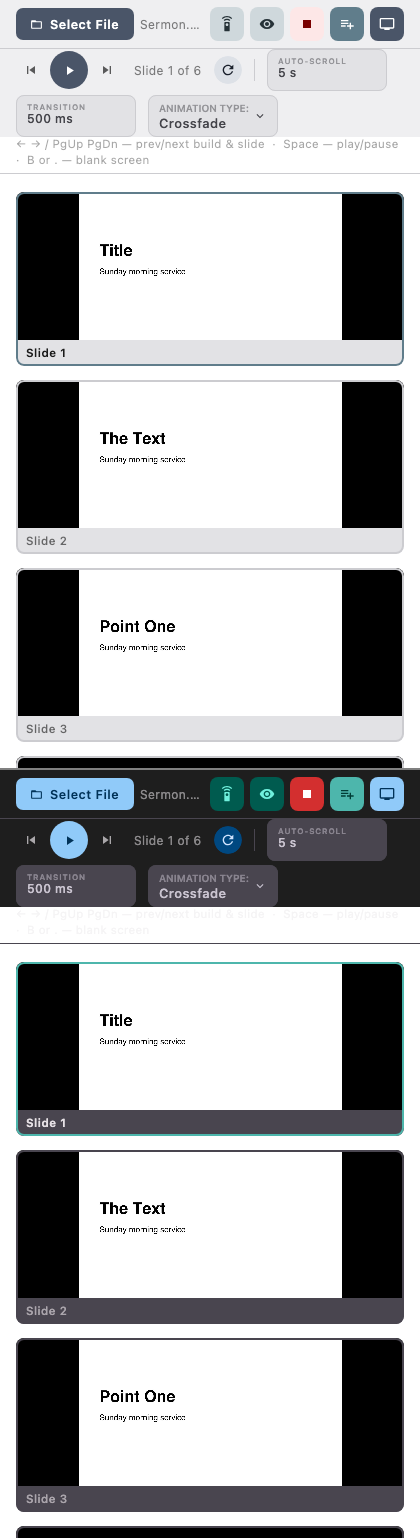
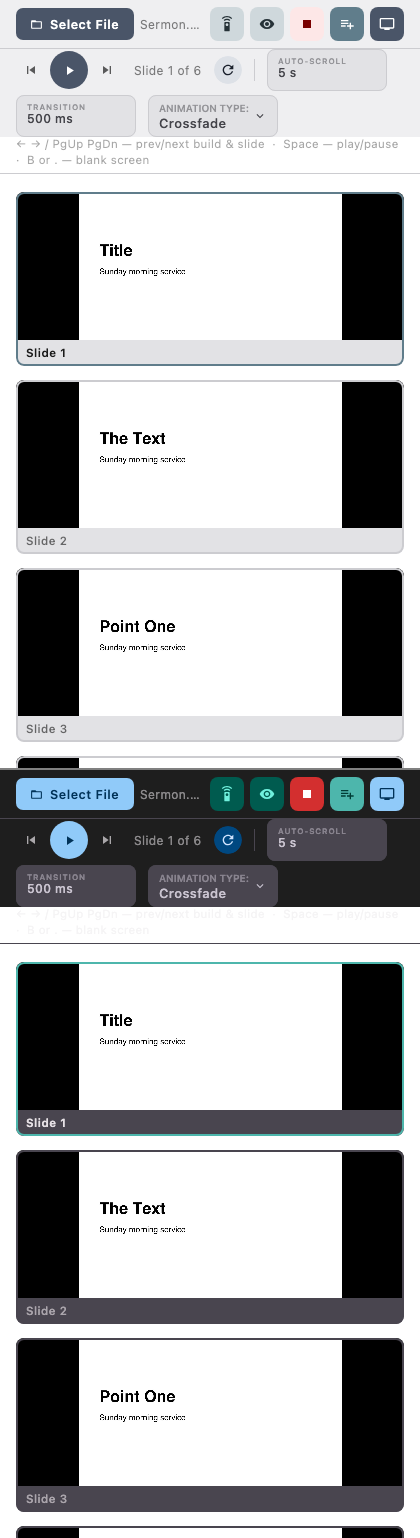
Improve slide label matching in PresentationTab test
Update PresentationTab screenshot test to match slide labels more robustly and use the unmerged semantics tree. Replace startsWith("Slide ") checks with a Regex (Slide \d+) so the test matches tile labels (e.g. "Slide 3") and not counters like "Slide 3 of 6". Also read ContentDescription with the same regex and call onAllNodes(..., useUnmergedTree = true) when fetching semantics. Regenerate the narrow_panel screenshot to reflect the UI change.

Changed region(s): [[0.1857, 0.9675, 0.8357, 1.0], [0.1857, 0.4681, 0.8048, 0.4993]]

diff --git a/composeApp/src/jvmTest/kotlin/org/churchpresenter/app/churchpresenter/screenshot/PresentationTabScreenshotTest.kt b/composeApp/src/jvmTest/kotlin/org/churchpresenter/app/churchpresenter/screenshot/PresentationTabScreenshotTest.kt
@@ -141,16 +141,16 @@ class PresentationTabScreenshotTest {
         waitUntil("every composed slide drawn", 5_000) {
             Snapshot.sendApplyNotifications()
             val labelled = semantics(SemanticsProperties.Text) { it.joinToString("") { t -> t.text } }
-                .filter { it.startsWith(SLIDE) }.toSet()
+                .filter { SLIDE_LABEL.matches(it) }.toSet()
             val drawn = semantics(SemanticsProperties.ContentDescription) { it.first() }
-                .filter { it.startsWith(SLIDE) }.toSet()
+                .filter { SLIDE_LABEL.matches(it) }.toSet()
             drawn.containsAll(labelled)
         }
         waitForIdle()
     }
 
     private fun <T> ComposeUiTest.semantics(key: SemanticsPropertyKey<T>, read: (T) -> String): List<String> =
-        onAllNodes(SemanticsMatcher.keyIsDefined(key))
+        onAllNodes(SemanticsMatcher.keyIsDefined(key), useUnmergedTree = true)
             .fetchSemanticsNodes(atLeastOneRootRequired = false)
             .mapNotNull { node -> node.config.getOrNull(key)?.let(read) }
 
@@ -313,7 +313,8 @@ class PresentationTabScreenshotTest {
         const val SECTION = "presentationTab"
 
         const val PLAY = "Play"
-        const val SLIDE = "Slide "
+        // "Slide 3", the tile label — not "Slide 3 of 6", which is the counter in the controls bar.
+        val SLIDE_LABEL = Regex("""Slide \d+""")
         const val ANIMATION_TYPE = "ANIMATION TYPE"
         const val AUTO_SCROLL = "AUTO-SCROLL INTERVAL"
         const val TRANSITION = "TRANSITION DURATION"
